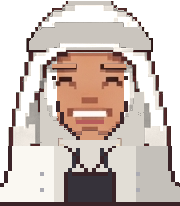
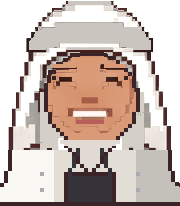
Middle Eastern woman cook: the hijab frames her face instead of covering it
make_chef_from_ref.py now finds her face from the reference's skin (with the eyes, brows and mouth
inside it, widened to a rounded chin), never paints the hijab inside it, cleans the beard's leftover
specks, and frames the face with a dark line one reference pixel wide, as the team's chefs have.

diff --git a/design/pixel-art/make_chef_from_ref.py b/design/pixel-art/make_chef_from_ref.py
@@ -14,6 +14,7 @@ from __future__ import annotations
 
 from pathlib import Path
 
+import cv2
 import numpy as np
 from PIL import Image, ImageDraw
 
@@ -48,10 +49,19 @@ def woman(man: np.ndarray, scarf: tuple[int, int, int]) -> np.ndarray:
     alpha = img[..., 3] > 0
     h, w = alpha.shape
     lum = rgb.mean(axis=2)
-    pinkish = (rgb[..., 0] > rgb[..., 2] + 10) & (lum > 110) & (lum < 215)    # the headdress' rose tones
-    # the scarf: his rose headdress, in her color (keeping its light and shade)
-    head = alpha & (pinkish | ((lum > 60) & (lum < 130))) & (np.arange(h)[:, None] < 150)
-    head &= ~((np.abs(np.arange(w)[None, :] - 90) < 34) & (np.arange(h)[:, None] > 52))   # not the face
+    ys = np.broadcast_to(np.arange(h)[:, None], (h, w))
+    # her face: his skin with the eyes, brows and mouth inside it, widened to a rounded chin where the beard was.
+    # The hijab is never painted inside it, and a dark line one block wide frames it.
+    skinlike = alpha & (rgb[..., 0] - rgb[..., 2] > 75) & (rgb[..., 0] > 170)
+    closed = cv2.morphologyEx(skinlike.astype(np.uint8), cv2.MORPH_CLOSE, np.ones((11, 11), np.uint8))
+    filled = closed.copy()
+    flood = np.zeros((h + 2, w + 2), np.uint8)
+    cv2.floodFill(filled, flood, (0, 0), 1)
+    face = (closed | (1 - filled)).astype(bool)
+    chin = blocks(lambda d: d.ellipse((11, 13, 34, 36), fill=1), (h, w))
+    face = (face | chin) & (ys >= 52) & (ys < 150)
+    # the scarf: his headdress (everything around the face above the shoulders), in her color with its shading
+    head = alpha & ~face & (ys < 150) & (lum > 60)
     tone = (lum / np.median(lum[head]))[..., None]
     # the black cord on top becomes scarf too
     edge = np.zeros_like(alpha)
@@ -62,17 +72,20 @@ def woman(man: np.ndarray, scarf: tuple[int, int, int]) -> np.ndarray:
     beard_zone = blocks(lambda d: d.rectangle((10, 23, 35, 38), fill=1), (h, w))
     beard = alpha & beard_zone & (lum < 95)
     mouth = blocks(lambda d: d.rectangle((17, 26, 27, 29), fill=1), (h, w))
-    chin = blocks(lambda d: d.ellipse((14, 14, 31, 35), fill=1), (h, w))
     skin = np.array((217, 154, 119), np.float32)
 
     out = rgb.copy()
     scarf_c = np.array(scarf, np.float32)
     out[head] = np.clip(scarf_c * tone[head], 0, 255)
     out[cord] = scarf_c * 0.86
-    out[beard & chin & ~mouth] = skin
-    out[beard & ~chin & ~mouth] = scarf_c * 0.9
-    jaw = outline(chin) & beard_zone & ~mouth & (np.arange(h)[:, None] > 100)
-    out[jaw & alpha] = INK
+    out[beard & face & ~mouth] = skin
+    out[beard & ~face & ~mouth] = scarf_c * 0.9
+    # leftover specks inside the face (the beard's edge, the headdress' shadow) become skin; the eyes, brows,
+    # nose and mouth stay
+    nose = blocks(lambda d: d.rectangle((19, 24, 25, 25), fill=1), (h, w))
+    speck = face & ~skinlike & ~mouth & ~nose & (((ys < 100) & (lum >= 80)) | (ys >= 100))
+    out[speck] = skin
+    out[outline(face) & alpha & ~mouth] = INK
     # finer brows (the lower block of each goes), lashes, a colored lower lip
     brows = blocks(lambda d: (d.rectangle((13, 16, 18, 16), fill=1), d.rectangle((26, 16, 31, 16), fill=1)), (h, w))
     out[brows & (lum < 80)] = skin
@@ -85,7 +98,7 @@ def woman(man: np.ndarray, scarf: tuple[int, int, int]) -> np.ndarray:
     rim = np.zeros_like(alpha)
     for dy, dx in ((B, 0), (-B, 0), (0, B), (0, -B)):
         rim |= ~np.roll(np.roll(alpha, dy, 0), dx, 1)
-    body = alpha & (np.arange(h)[:, None] >= 146) & ~blocks(lambda d: d.ellipse((14, 14, 31, 35), fill=1), (h, w))
+    body = alpha & (ys >= 150)
     xs = np.broadcast_to(np.arange(w)[None, :], (h, w))
     out[body] = JACKET[1]
     out[body & (xs < w * 0.3)] = JACKET[2]
